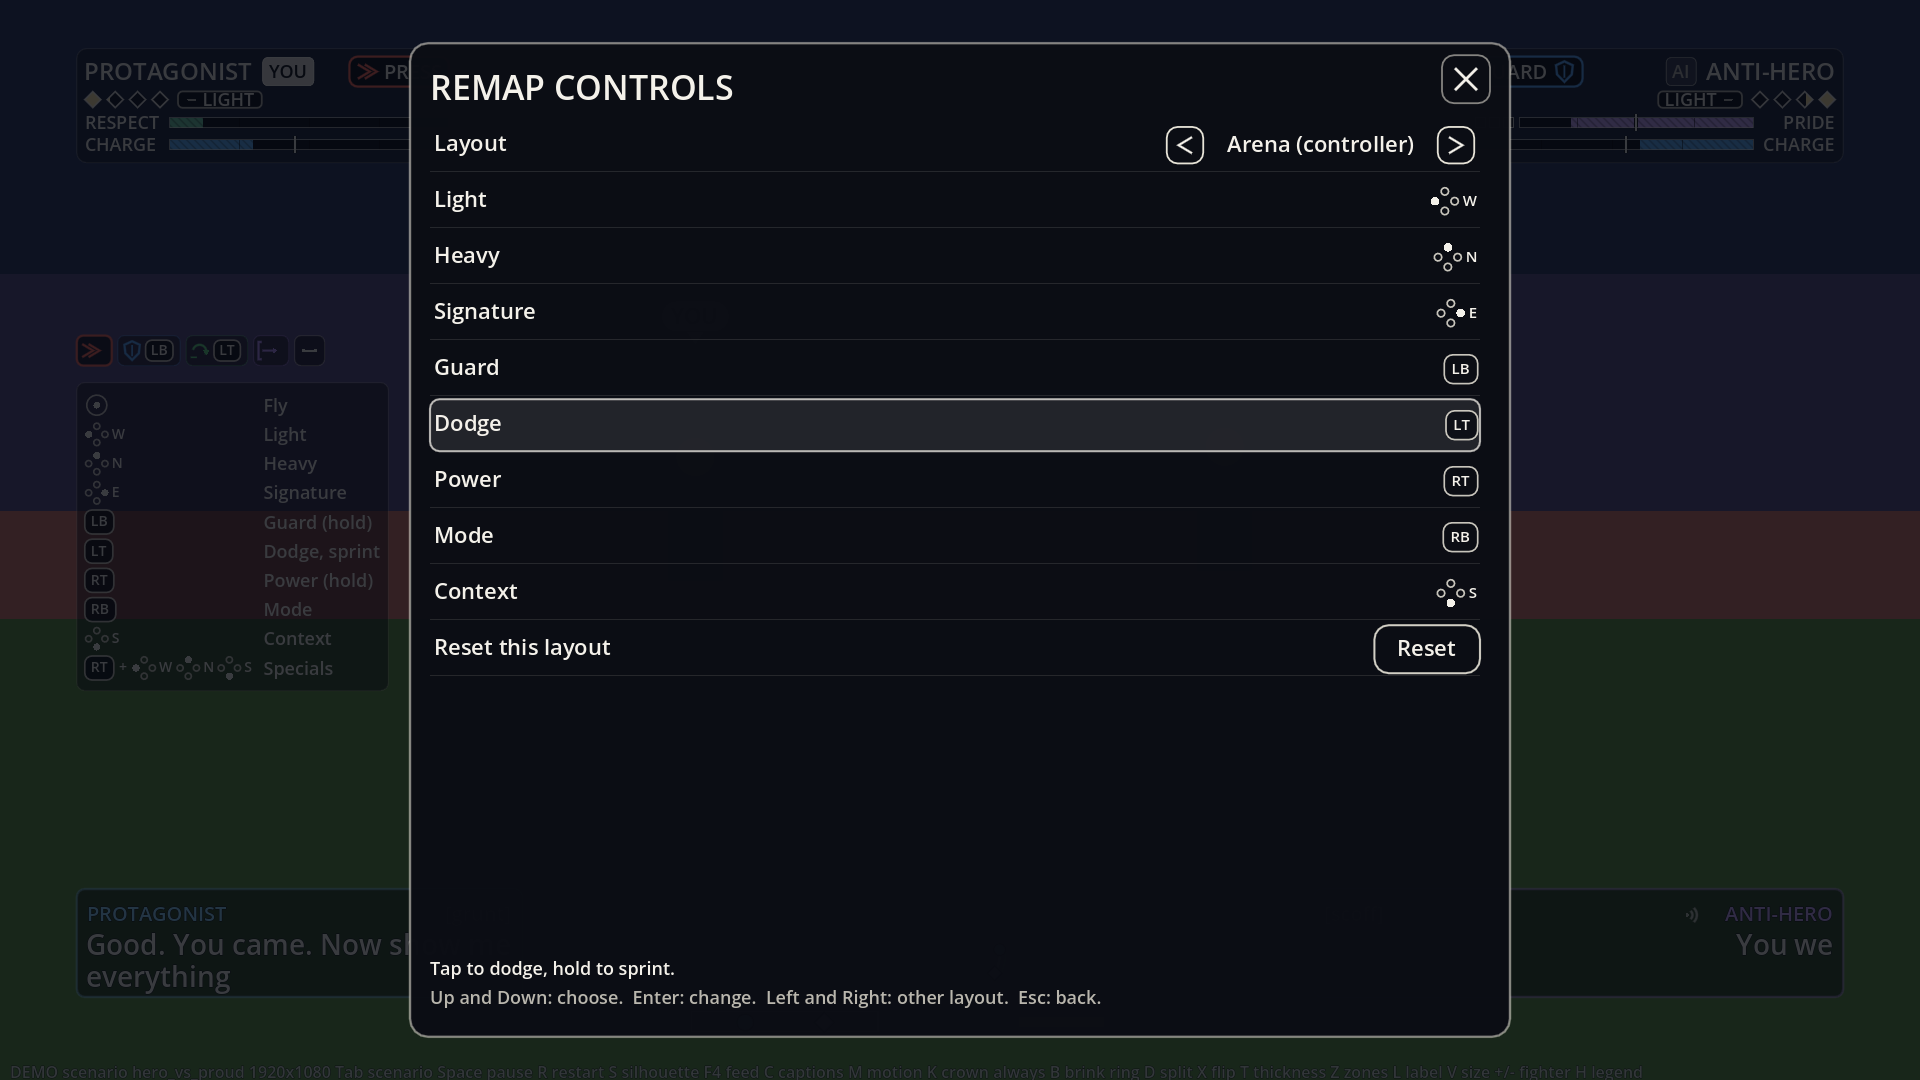
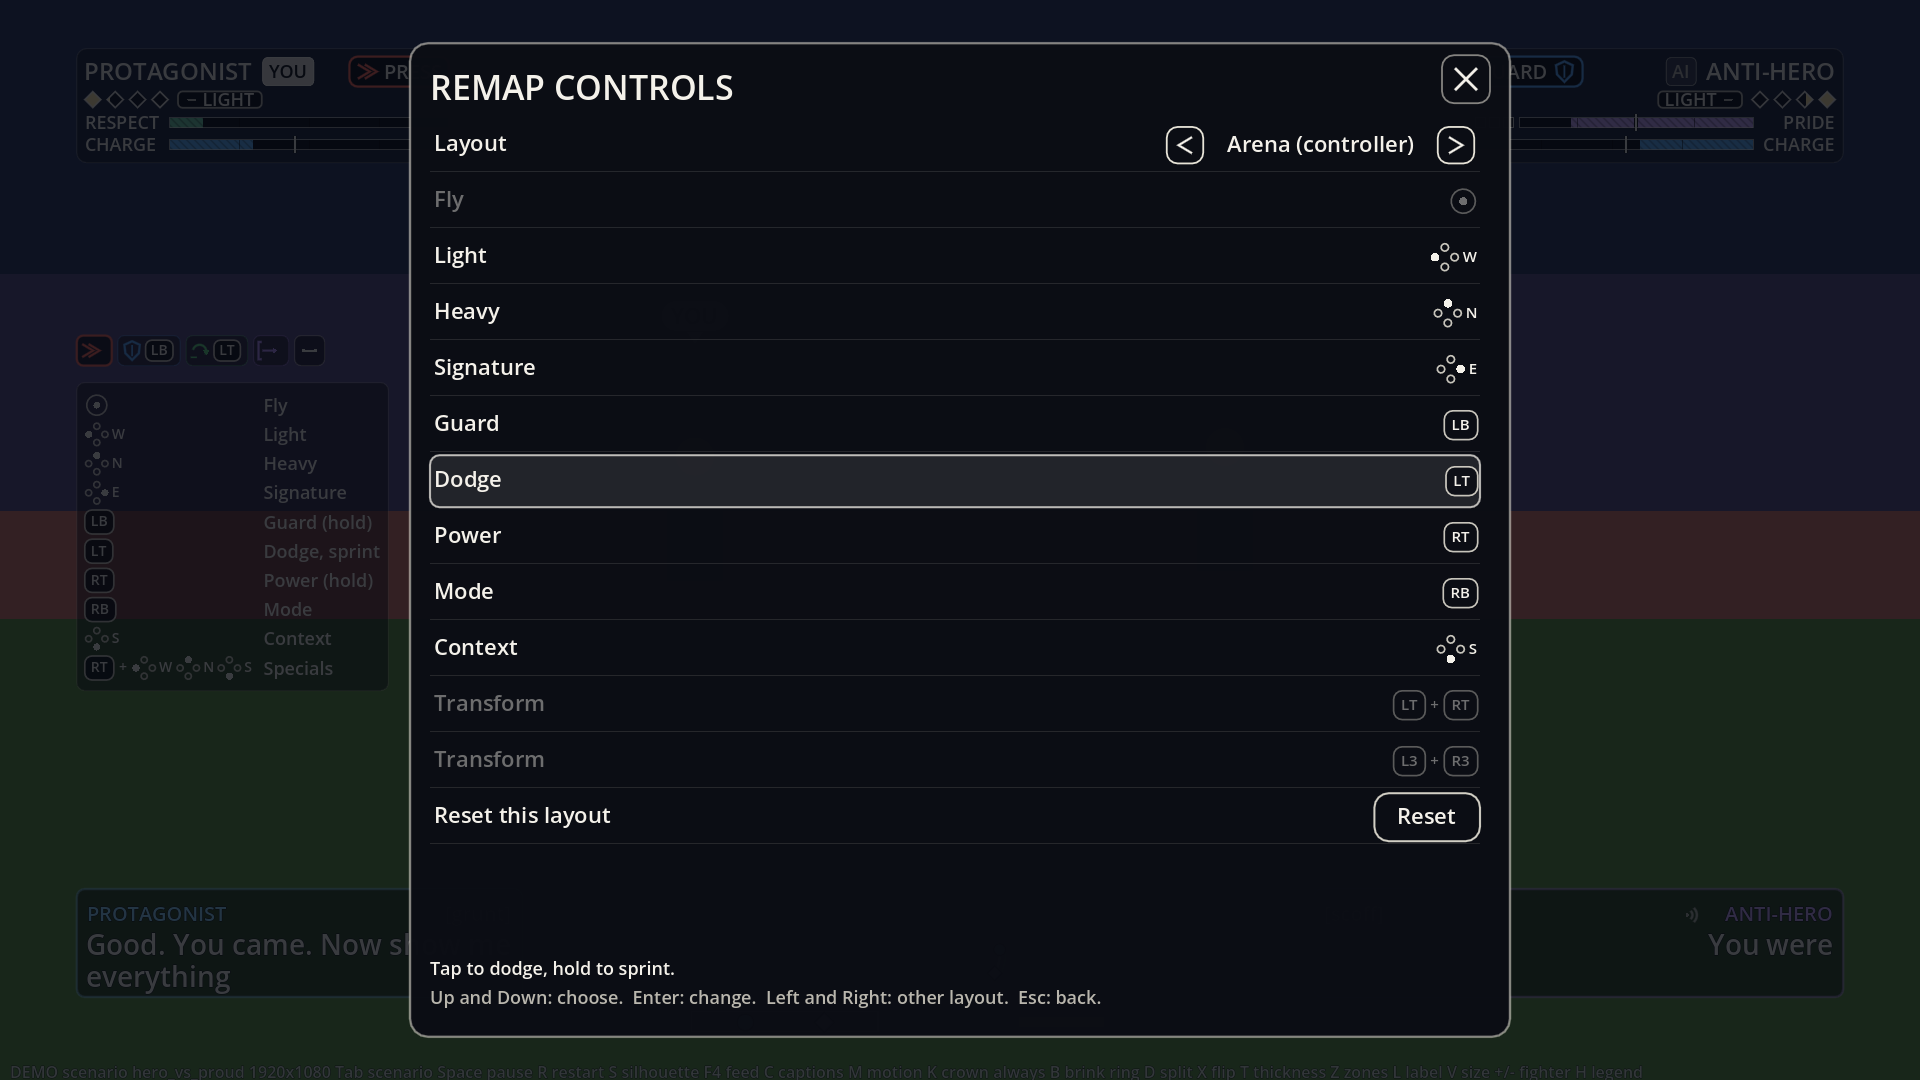
UI: remap screen follows Controls' changes (fixed chord rows, free chord members, Fly row)

diff --git a/docs/ui/hud-spec.md b/docs/ui/hud-spec.md
@@ -754,13 +754,15 @@ Opened from Settings (the Remap controls row) or by `UiHud.show_remap(layout_id)
 
 ![Keyboard layout](img/remap-keyboard.png)
 ![A taken key offers a swap](img/remap-swap.png)
-![A pad layout](img/remap-pad.png)
+![A pad layout: the stick and the chords are greyed](img/remap-pad.png)
+![Fly asks for four keys in turn and names a key that is taken](img/remap-fly.png)
 ![A phone in landscape: the wait and the swap buttons are touch targets](img/remap-phone.png)
 
-- **What can be changed.** Keyboard layouts (solo, shared player 1, shared player 2) and pad layouts (Arena, Brawler, Simple). Touch is positional and is not remapped. Each layout is a row to choose (Left and Right anywhere, or the chevrons), then a row per action that has a single control (Light, Heavy, Signature, Guard, Dodge, Power, Mode, Context, and Transform on the layouts with a single key or button for it) showing the control it has now, and a Reset for the layout. Fixed: the keyboard's four move keys and the pad stick, every chord (LT + RT, L3 + R3, Space + E), gesture bindings, Pause, Hints, Start and Back.
+- **What can be changed.** Keyboard layouts (solo, shared player 1, shared player 2) and pad layouts (Arena, Brawler, Simple). Touch is positional and is not remapped. Each layout is a row to choose (Left and Right anywhere, or the chevrons), then a row per action that has a single control (Light, Heavy, Signature, Guard, Dodge, Power, Mode, Context, and Transform on the layouts with a single key or button for it) showing the control it has now, on a keyboard Fly (four keys), and a Reset for the layout. **Fixed rows are shown greyed and cannot be captured:** every chord (LT + RT, L3 + R3, Space + E, shown with its plus) and the pad stick (Fly). Not listed: gesture bindings and the power layer (they follow their action), Pause, Hints, Start and Back.
 - **How.** Enter, A, a click or a tap on a row waits for the next press ("Press the key for Light. Esc cancels." / "Press the button for Light. Start cancels."; the row shows Press... and a Cancel button appears for the mouse and a finger). A key binds as `kb:` plus `RenderKeys.code`; a pad button or a trigger pulled past `triggerOn` binds through `SimInputNames.pad_control_from_event`.
-- **A taken control** asks "K is already Heavy. Swap them?" with Swap and Cancel (Enter or A swaps, Esc or B cancels): `SimInputRemap.swap` hands the other action the old control, so no action is left without one. **Refused**, with the reason shown and the wait going on: the keyboard's N, T, Y, P, Esc and F-keys, a pad's Start and Back, a key from the other half of a shared keyboard (`layout-pair`), a control of the wrong device, and a control that is part of a chord ("RT is part of the Transform buttons, which stay as they are"). The verdict comes from `SimInputData.check_bindings` on the layout the change would make.
-- **What follows.** Controls' applier moves a layered partner with its base action: rebinding Light also moves the first special (Power held plus Light) and Simple's auto special; on Brawler the third special follows Mode.
+- **Fly** is one row that captures four keys in order ("Press the key for Fly up.", then left, down, right). Each key is checked as it is pressed (reserved, the other half's keys, the same key twice, another action's key); when the fourth is in, all four are rebound together (`rebind(preset, "move", null, 0, four_keys)`) as one `{controls: [four keys], action: "move"}` row. A key that is another action's is named ("J is already Light. Pick another.") and there is no swap for a Fly key.
+- **A taken control** asks "K is already Heavy. Swap them?" with Swap and Cancel (Enter or A swaps, Esc or B cancels): `SimInputRemap.swap` hands the other action the old control, so no action is left without one. **Refused**, with the reason shown and the wait going on: the keyboard's N, T, Y, P, Esc and F-keys, a pad's Start and Back, a key from the other half of a shared keyboard (`layout-pair`), and a control of the wrong device. A chord's members are free: LT, RT or L3 may be given to another action as a single control (a taken one offers the usual swap) and the chord itself is never changed. The verdict comes from `SimInputData.check_bindings` on the layout the change would make.
+- **What follows.** Controls' applier moves a layered partner and a gesture with its base action: rebinding Light also moves the first special (Power held plus Light), and on Simple the hold-for-heavy and the auto special; on Brawler the third special follows Mode.
 - **The result.** The change is applied at once with `SimInputData.apply_overrides(layout, rows)` and saved with `SimInputData.save_overrides()` to `user://input.json` (Controls' file, the only store; `load_and_apply()` reads it at startup). `SimInputData.preset(id)` is then the layout as it is played, so the legend, the prompt row and the How to play card (all through `UiGlyphs`) and the sim read the same one. `UiHud.remap_changed(layout_id, overrides)` is for the host: call `SimInputHub.reload_layouts()` (the hub rebuilds from `SimInputData.preset(...)`, safe mid-match). `overrides` is `SimInputRemap.diff(original, edited)`: for each changed action, one `{controls, action}` row per binding; an empty list means the data's controls.
 - **Both features are on.** `remap` and `touch_full` in `ui/data/features.json` are true now that Controls' applier and Full layout exist.
 
